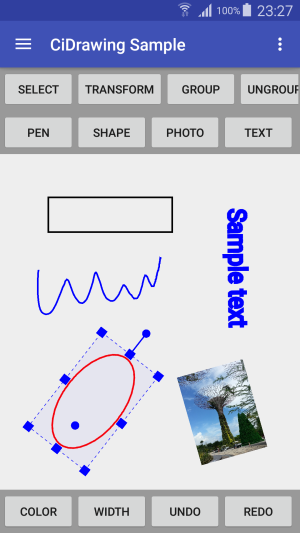
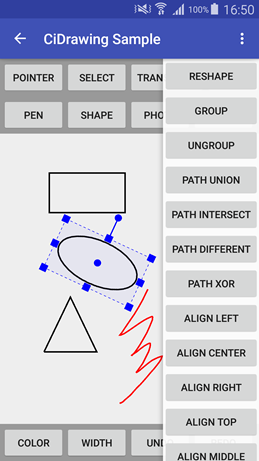
Update readme and screenshots.

diff --git a/README.md b/README.md
@@ -19,21 +19,30 @@ CiDrawing is a vector graphics library for Android, it provides a custom view an
  * Photo element
  * Text element
 
-### Transformations
- * Move
- * Rotate
- * Resize
- * Skew
- * ReShape
-
 ### Functions
- * Element selection and transformation (Rectangle select, Oval select and Lasso select)
- * Multiple elements selection and transformation
- * Custom paint (color, width, style, etc)
+ * Basic element transformation
+  * Move
+  * Rotate
+  * Resize
+  * Skew
+  * Re-Shape (Reset transformation without change drawing)
+ * Element selection (Single/Multiple)
+  * Rectangle select
+  * Oval select
+  * Lasso select
+ * Custom paint (Color, Width, Style, etc)
  * Multiple layer support
  * Unlimited undo/redo
  * Element group/ungroup
  * Eraser (Object eraser)
+ * Path operation
+  * Union
+  * Intersect
+  * Different/Reserved Differernt
+  * Xor
+ * Element alignment
+  * Horizontal (Left, Center, Right)
+  * Vertical (Top, Middle, Bottom)
 
 ## How to Use
 Include view in your layout as:
@@ -56,6 +65,7 @@ Please check out the sample project at [CiDrawing Sample] (https://github.com/mo
 ### Screenshots
 ![Screenshot 1](https://github.com/mocircle/cidrawing/blob/master/docs/sample1.png) 
 ![Screenshot 2](https://github.com/mocircle/cidrawing/blob/master/docs/sample2.png)
+![Screenshot 3](https://github.com/mocircle/cidrawing/blob/master/docs/sample3.png)
 
 ## Add to your project
 Current CiDrawing is still under developing, not yet published. So please compile source code yourself.
